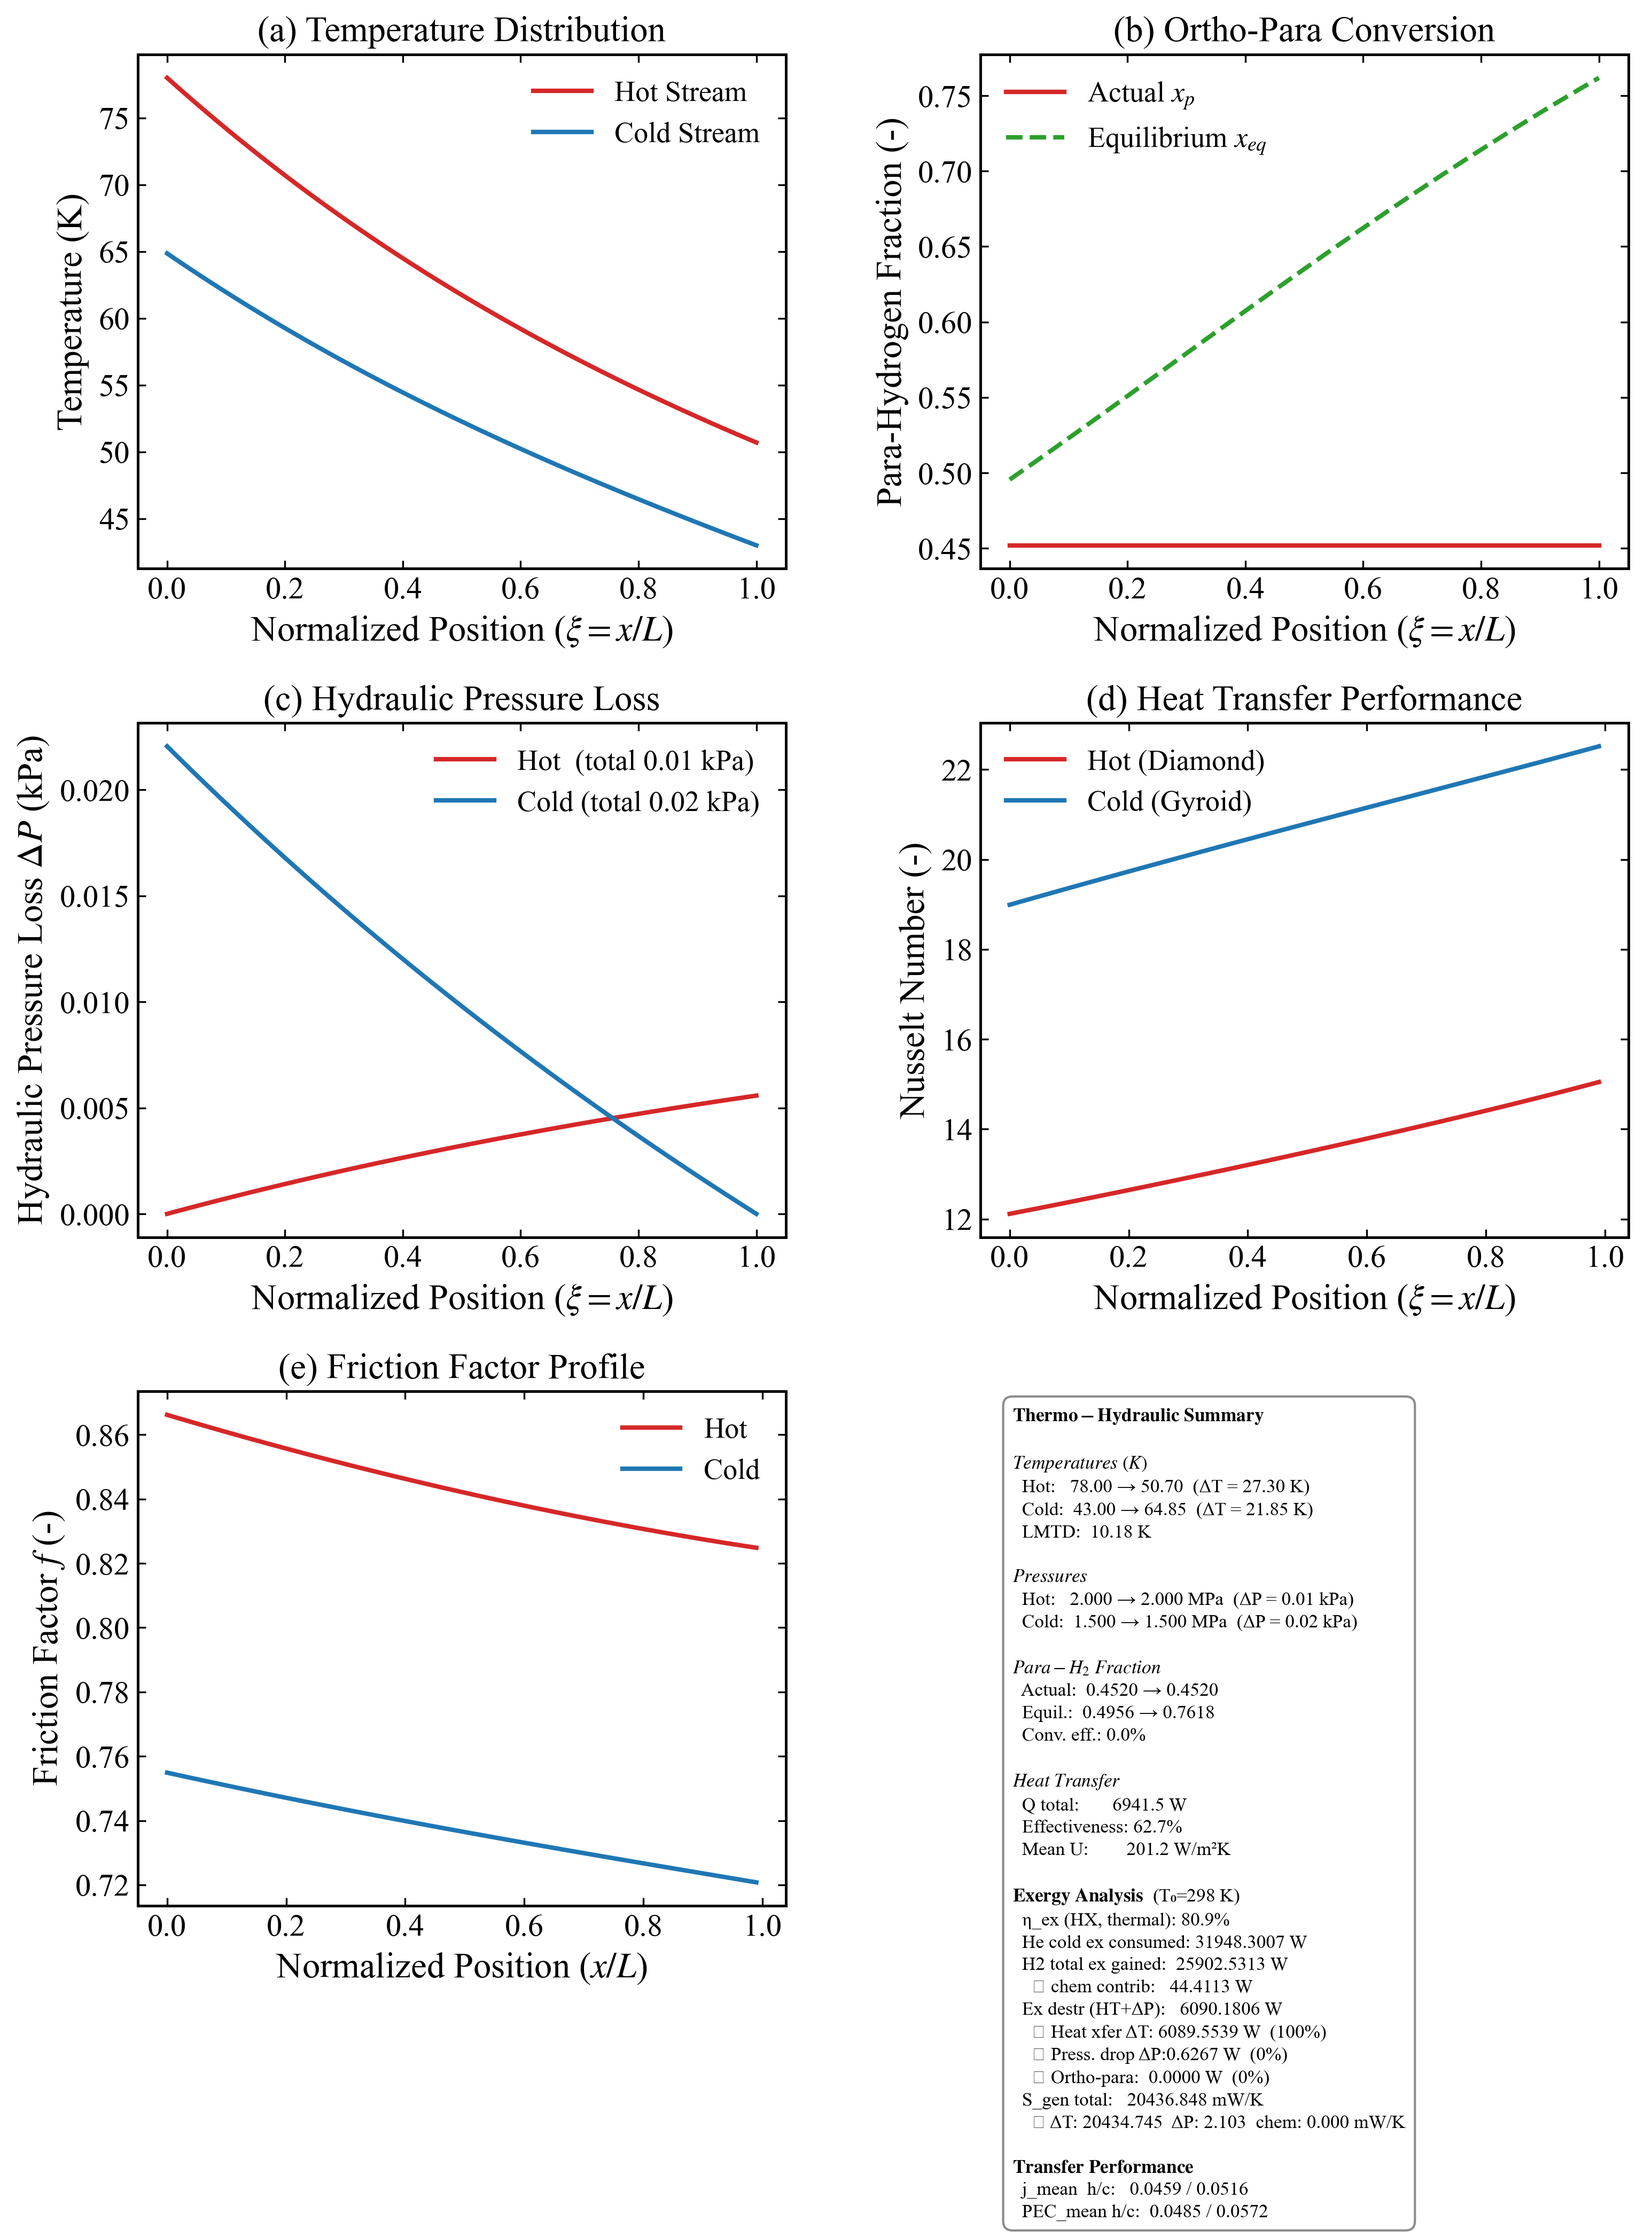
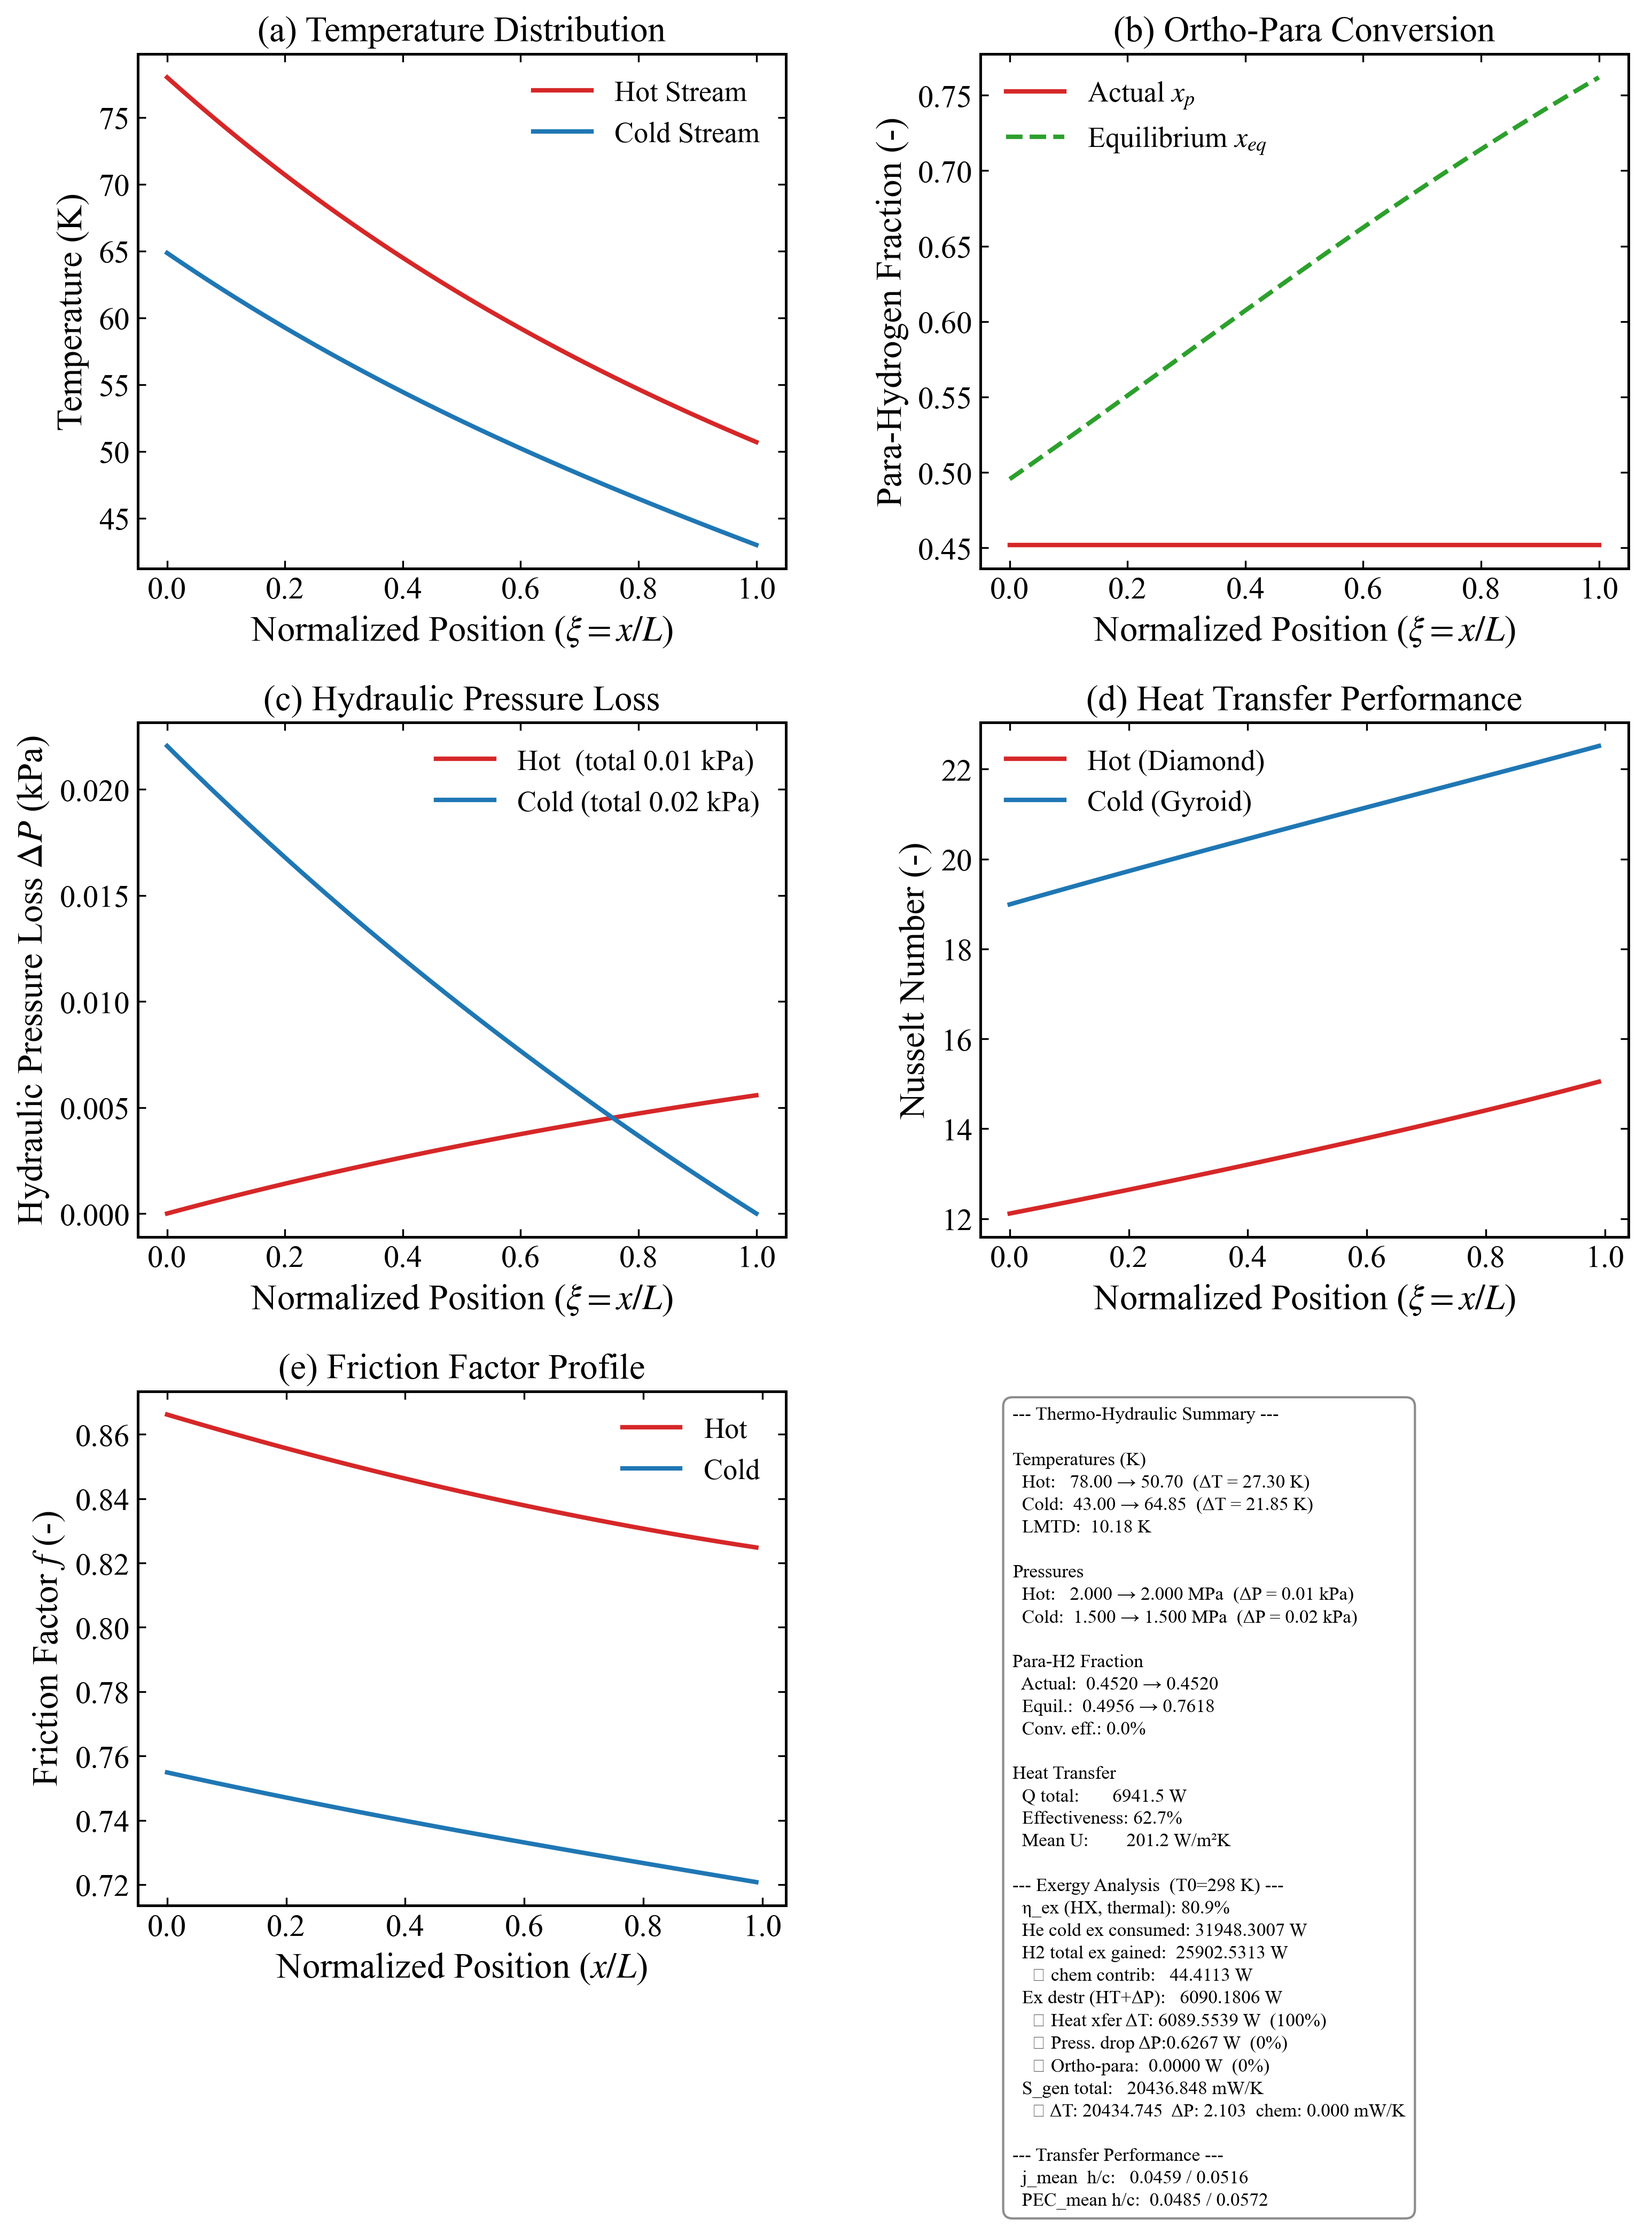
bug fixes

diff --git a/TPMS_HE_main/tpms_visualization.py b/TPMS_HE_main/tpms_visualization.py
@@ -285,23 +285,23 @@ class TPMSVisualizer:
         mean_U = float(np.mean(he.U))
 
         lines = [
-            r"$\bf{Thermo-Hydraulic\ Summary}$",
+            "--- Thermo-Hydraulic Summary ---",
             "",
-            r"$\it{Temperatures\ (K)}$",
+            "Temperatures (K)",
             f"  Hot:   {Th_in:.2f} \u2192 {Th_out:.2f}  (\u0394T = {dTh:.2f} K)",
             f"  Cold:  {Tc_in:.2f} \u2192 {Tc_out:.2f}  (\u0394T = {dTc:.2f} K)",
             f"  LMTD:  {LMTD:.2f} K",
             "",
-            r"$\it{Pressures}$",
+            "Pressures",
             f"  Hot:   {Ph_in:.3f} \u2192 {Ph_out:.3f} MPa  (\u0394P = {dP_hot:.2f} kPa)",
             f"  Cold:  {Pc_in:.3f} \u2192 {Pc_out:.3f} MPa  (\u0394P = {dP_cold:.2f} kPa)",
             "",
-            r"$\it{Para-H_2\ Fraction}$",
+            "Para-H2 Fraction",
             f"  Actual:  {x_in:.4f} \u2192 {x_out:.4f}",
             f"  Equil.:  {x_eq_in:.4f} \u2192 {x_eq_out:.4f}",
             f"  Conv. eff.: {eff_conv:.1f}%",
             "",
-            r"$\it{Heat\ Transfer}$",
+            "Heat Transfer",
             f"  Q total:       {Q_total:.1f} W",
             f"  Effectiveness: {Q_total / max(he.Q_max_capacity, 1e-12) * 100:.1f}%",
             f"  Mean U:        {mean_U:.1f} W/m\u00b2K",
@@ -321,7 +321,7 @@ class TPMSVisualizer:
             Ex_chem  = perf.get('Ex_chem_net', 0.0)
             lines += [
                 "",
-                r"$\bf{Exergy\ Analysis}$" + f"  (T\u2080={perf['T0']:.0f} K)",
+                f"--- Exergy Analysis  (T0={perf['T0']:.0f} K) ---",
                 f"  \u03b7_ex (HX, thermal): {perf['eta_ex'] * 100:.1f}%",
                 f"  He cold ex consumed: {Ex_He:.4f} W",
                 f"  H2 total ex gained:  {Ex_H2:.4f} W",
@@ -335,7 +335,7 @@ class TPMSVisualizer:
                 f"  \u0394P: {perf.get('S_gen_dP_tot',0.0)*1e3:.3f}"
                 f"  chem: {perf.get('S_gen_chem_tot',0.0)*1e3:.3f} mW/K",
                 "",
-                r"$\bf{Transfer\ Performance}$",
+                "--- Transfer Performance ---",
                 f"  j_mean  h/c:   {perf['j_mean_h']:.4f} / {perf['j_mean_c']:.4f}",
                 f"  PEC_mean h/c:  {perf['PEC_mean_h']:.4f} / {perf['PEC_mean_c']:.4f}",
             ]
@@ -541,8 +541,8 @@ class TPMSVisualizer:
         ex_bal  = perf.get('Ex_balance_residual', Ex_He - Ex_H2 - dest_grand)
 
         summary_lines = [
-            r"$\bf{Exergy\ Analysis\ (Gouy-Stodola,\ 3\ sources)}$",
-            f"  Dead-state T\u2080 = {perf['T0']:.1f} K  (ambient)",
+            "--- Exergy Analysis (Gouy-Stodola, 3 sources) ---",
+            f"  Dead-state T0 = {perf['T0']:.1f} K  (ambient)",
             f"  He cold exergy consumed  = {Ex_He:.4f} W",
             f"  H2 total exergy gained   = {Ex_H2:.4f} W",
             f"    \u21b3 H2 chem. contribution = {Ex_chem:.4f} W",
@@ -557,7 +557,7 @@ class TPMSVisualizer:
             f"  | \u0394P: {perf.get('S_gen_dP_tot', 0.0)*1e3:.3f}"
             f"  | chem: {perf.get('S_gen_chem_tot', 0.0)*1e3:.3f} mW/K",
             "",
-            r"$\bf{Thermo-Hydraulic\ Performance}$",
+            "--- Thermo-Hydraulic Performance ---",
             f"  Effectiveness       = {effectiveness:.1f}%",
             f"  j_mean  hot / cold  = {perf['j_mean_h']:.4f} / {perf['j_mean_c']:.4f}",
             f"  PEC_mean hot / cold = {perf['PEC_mean_h']:.4f} / {perf['PEC_mean_c']:.4f}",

diff --git a/README.md b/README.md
@@ -21,6 +21,7 @@ This repository now merges the original two stages into one solver path while ke
 - Fixed runtime stability issues found during UI-driven runs:
   - Windows console encoding-safe export logs (`[OK] ...` messages)
   - mathtext parse issue in visualization summary (`Delta P_h` text rendering)
+  - matplotlib `ParseException` in text annotation panels (see below)
 - Added TPMS Geometry Estimator panel (Step 1 – Geometry):
   - Surface area density (SAD) estimation via Marching Cubes (scikit-image, optional)
     for Gyroid, Diamond, Primitive; empirical formulas for Neovius, FRD, FKS
@@ -191,6 +192,47 @@ Implementation details:
 - `xh` is initialized as a flat inlet profile (no artificial conversion ramp).
 - In bare hot-channel cases, solver enforces constant `xh` profile each iteration.
 
+## Cross-Temperature Phenomenon (Tc_out > Th_in)
+
+When the hot channel is packed with an ortho-para conversion catalyst, the
+H2 stream contains an **internal distributed heat source** — the exothermic
+ortho→para conversion (~703 kJ/kg at cryogenic temperatures).  This decouples
+the system from standard single-phase HX thermodynamics:
+
+```
+Standard HX (no internal source):    Tc_out ≤ Th_in  always
+Packed-bed H2 HX (conversion ON):    Tc_out > Th_in  is physically valid
+```
+
+**Physical mechanism:**  Near the cold end of the exchanger the H2 has already
+been cooled significantly and its ortho-para conversion accelerates (higher
+equilibrium para-fraction at lower T).  The conversion heat released into the H2
+stream can locally exceed the sensible cooling rate, so the H2 temperature
+*rises* in that region.  The cold He stream continues to absorb heat from what
+is now a locally warmer H2, driving Tc_out above Th_in (the H2 *inlet*
+temperature).
+
+**Consequence for effectiveness:**  The standard NTU-ε min-capacity-rate formula
+assumes no internal sources and would yield ε > 100% if applied naively.  Two
+corrections are applied in this solver:
+
+1. **Q_actual from enthalpy states** — `Q = mh × [h(Th_in, xh_in) − h(Th_out, xh_out)]`
+   (inlet/outlet enthalpy difference, not `Σ UA·ΔT`).  This correctly accounts
+   for conversion heat deposited into the stream.
+
+2. **Q_max from full conversion to equilibrium** — when conversion is active,
+   `Q_max = mh × [h(Th_in, xh_in) − h(Tc_in, x_eq(Tc_in))]`.  This is the
+   maximum enthalpy the H2 could release: sensible cooling *plus* complete
+   ortho→para conversion at the cold-end temperature.  Because this bound always
+   exceeds Q_actual, effectiveness is guaranteed ≤ 100%.
+
+   In bare mode (no conversion), the standard rule applies:
+   `Q_max = min(Q_max_hot, Q_max_cold)`.
+
+**Code location:** `_initialize_state` in
+`tpms_thermo_hydraulic_calculator.py` (lines ~475–504); `_print_results` and
+`tpms_visualization.py` use enthalpy-based Q throughout.
+
 ## New Canonical Config Schema
 
 ```python
@@ -276,7 +318,47 @@ Troubleshooting:
 - if `streamlit` command is not found, always use:
   - `python -m streamlit run app.py`
 - if autosave causes unexpected form values, use `Reload Autosave` or `Reset Defaults`
-- if you previously saw `ParseException` during plotting, update to the latest code (this is fixed in current version)
+- if you see `ParseException` during plotting, see the section below
+
+### matplotlib ParseException in text annotation panels
+
+**Symptom:**
+
+```
+ParseException: Expected end of text, found '$' (at char 0), (line:1, col:1)
+```
+
+Matplotlib prints each character of the failing string to the terminal before
+raising the exception, so you will see output like:
+
+```
+T h e r m o − H y d r a u l i c   P e r f o r m a n c e
+ParseException: Expected end of text, found '$'...
+```
+
+**Root cause:**
+
+Matplotlib's mathtext parser is triggered whenever a text string contains `$`
+delimiters.  Inside `$...$`, a hyphen `-` is treated as a **minus operator**,
+so strings like `$\bf{Thermo-Hydraulic\ Summary}$` cause a parse error because
+`Thermo` and `Hydraulic` are parsed as variables with `-` (subtraction) between
+them.  Additionally, mixed strings of the form `r"$\bf{...}$" + f"...plain..."`
+confuse the parser in some matplotlib versions.
+
+**Fix applied (March 2026):**
+
+All `$\bf{...}$` and `$\it{...}$` mathtext markup was removed from the
+multi-line text annotation strings in `tpms_visualization.py`.  Headers now use
+plain `"--- Header ---"` style text; section labels use plain strings.  Axis
+titles and labels that use `$...$` only for single symbols (e.g. `$\xi$`,
+`$\Delta P$`) are unaffected — those contain no hyphens and parse correctly.
+
+**Rule going forward:**
+
+Never use `$\bf{text-with-hyphens}$` or `$\it{text-with-hyphens}$` in
+`ax.text()` / `ax.annotate()` calls.  Use plain Unicode text for annotation
+boxes; reserve `$...$` for axis labels and titles where only math symbols
+(Greek letters, fractions, superscripts) are needed.
 
 ## Mode Combination Examples
 
